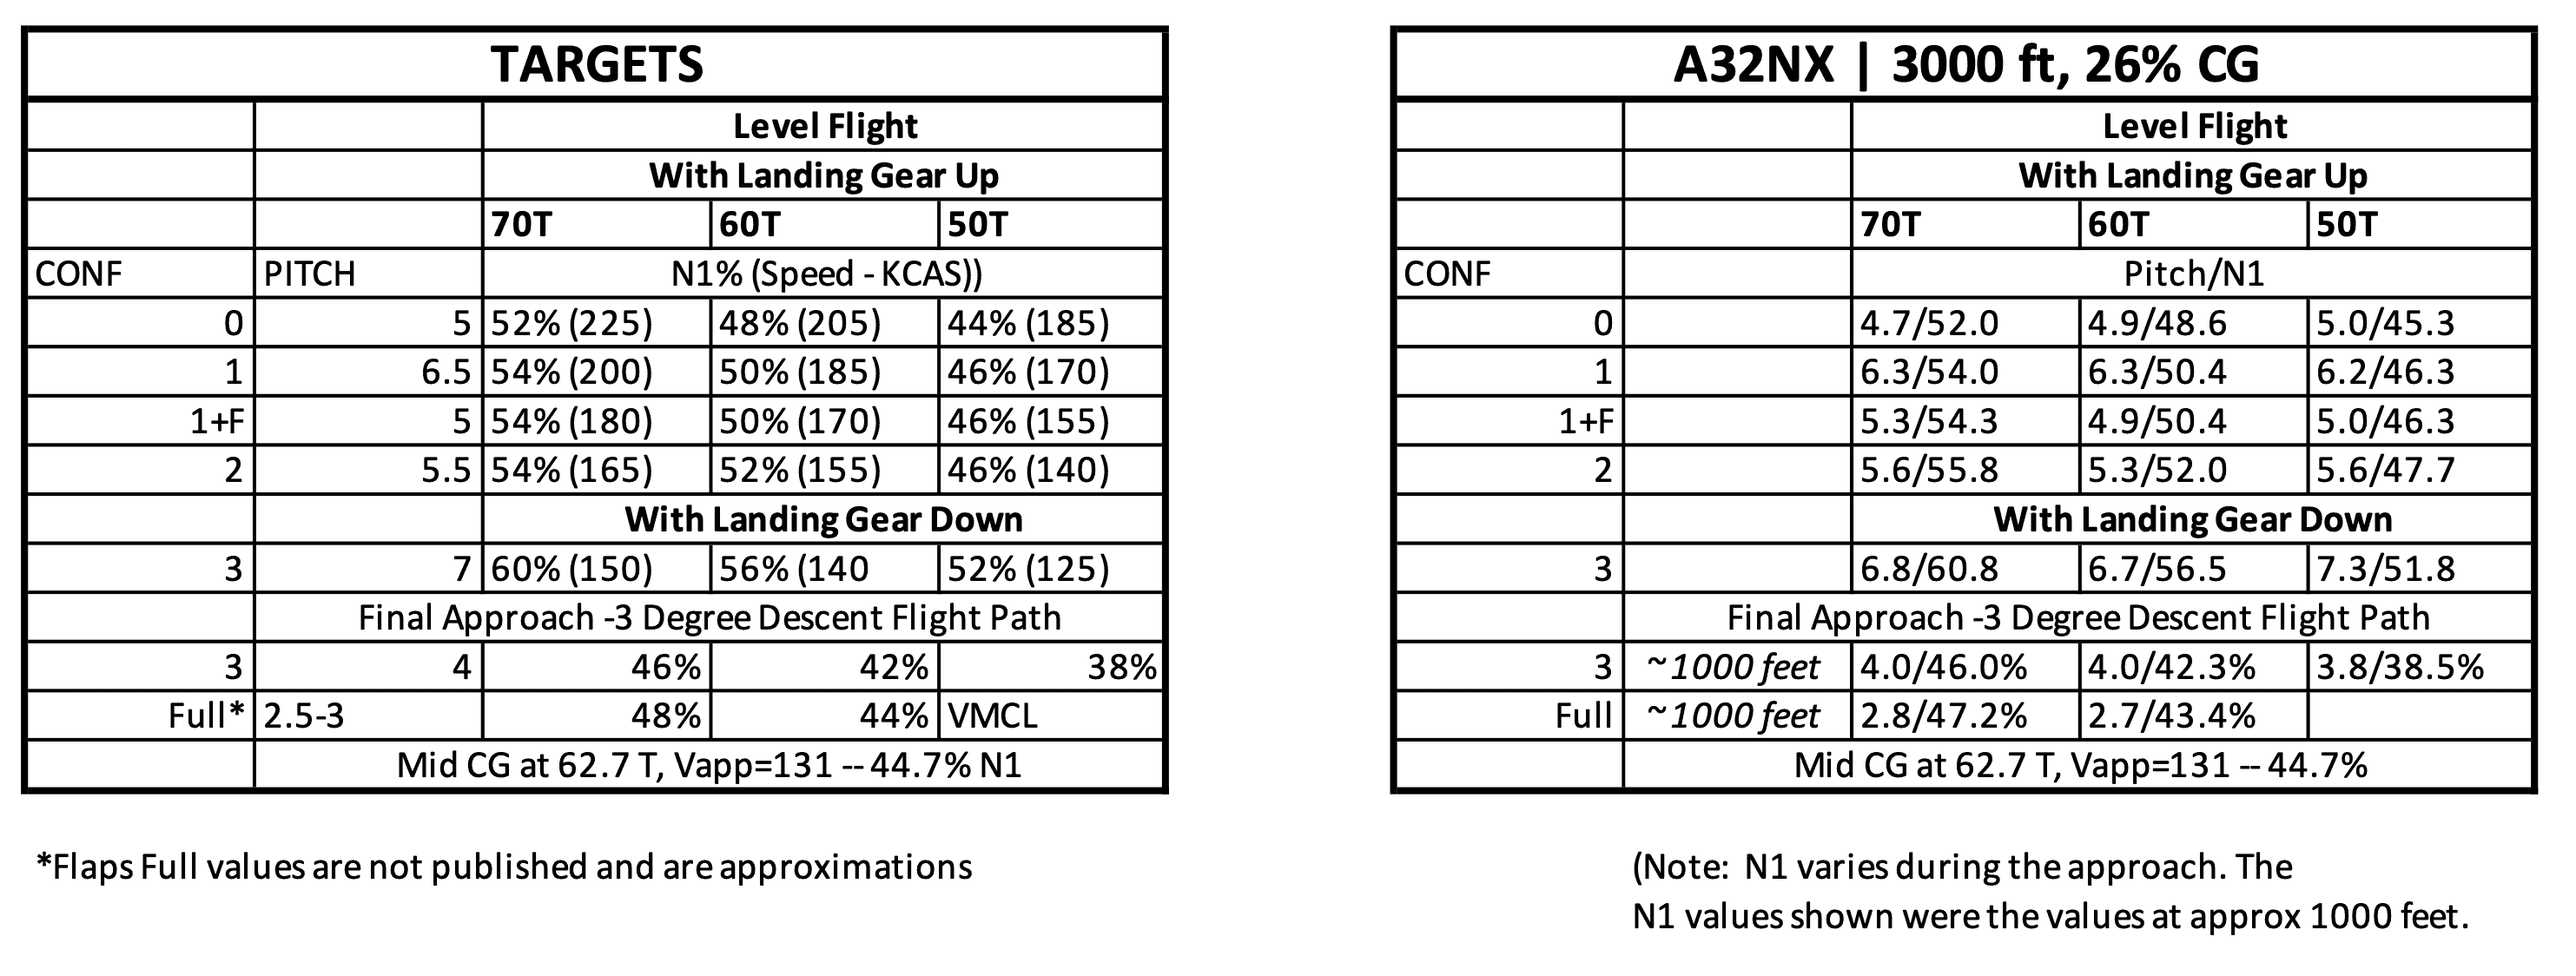
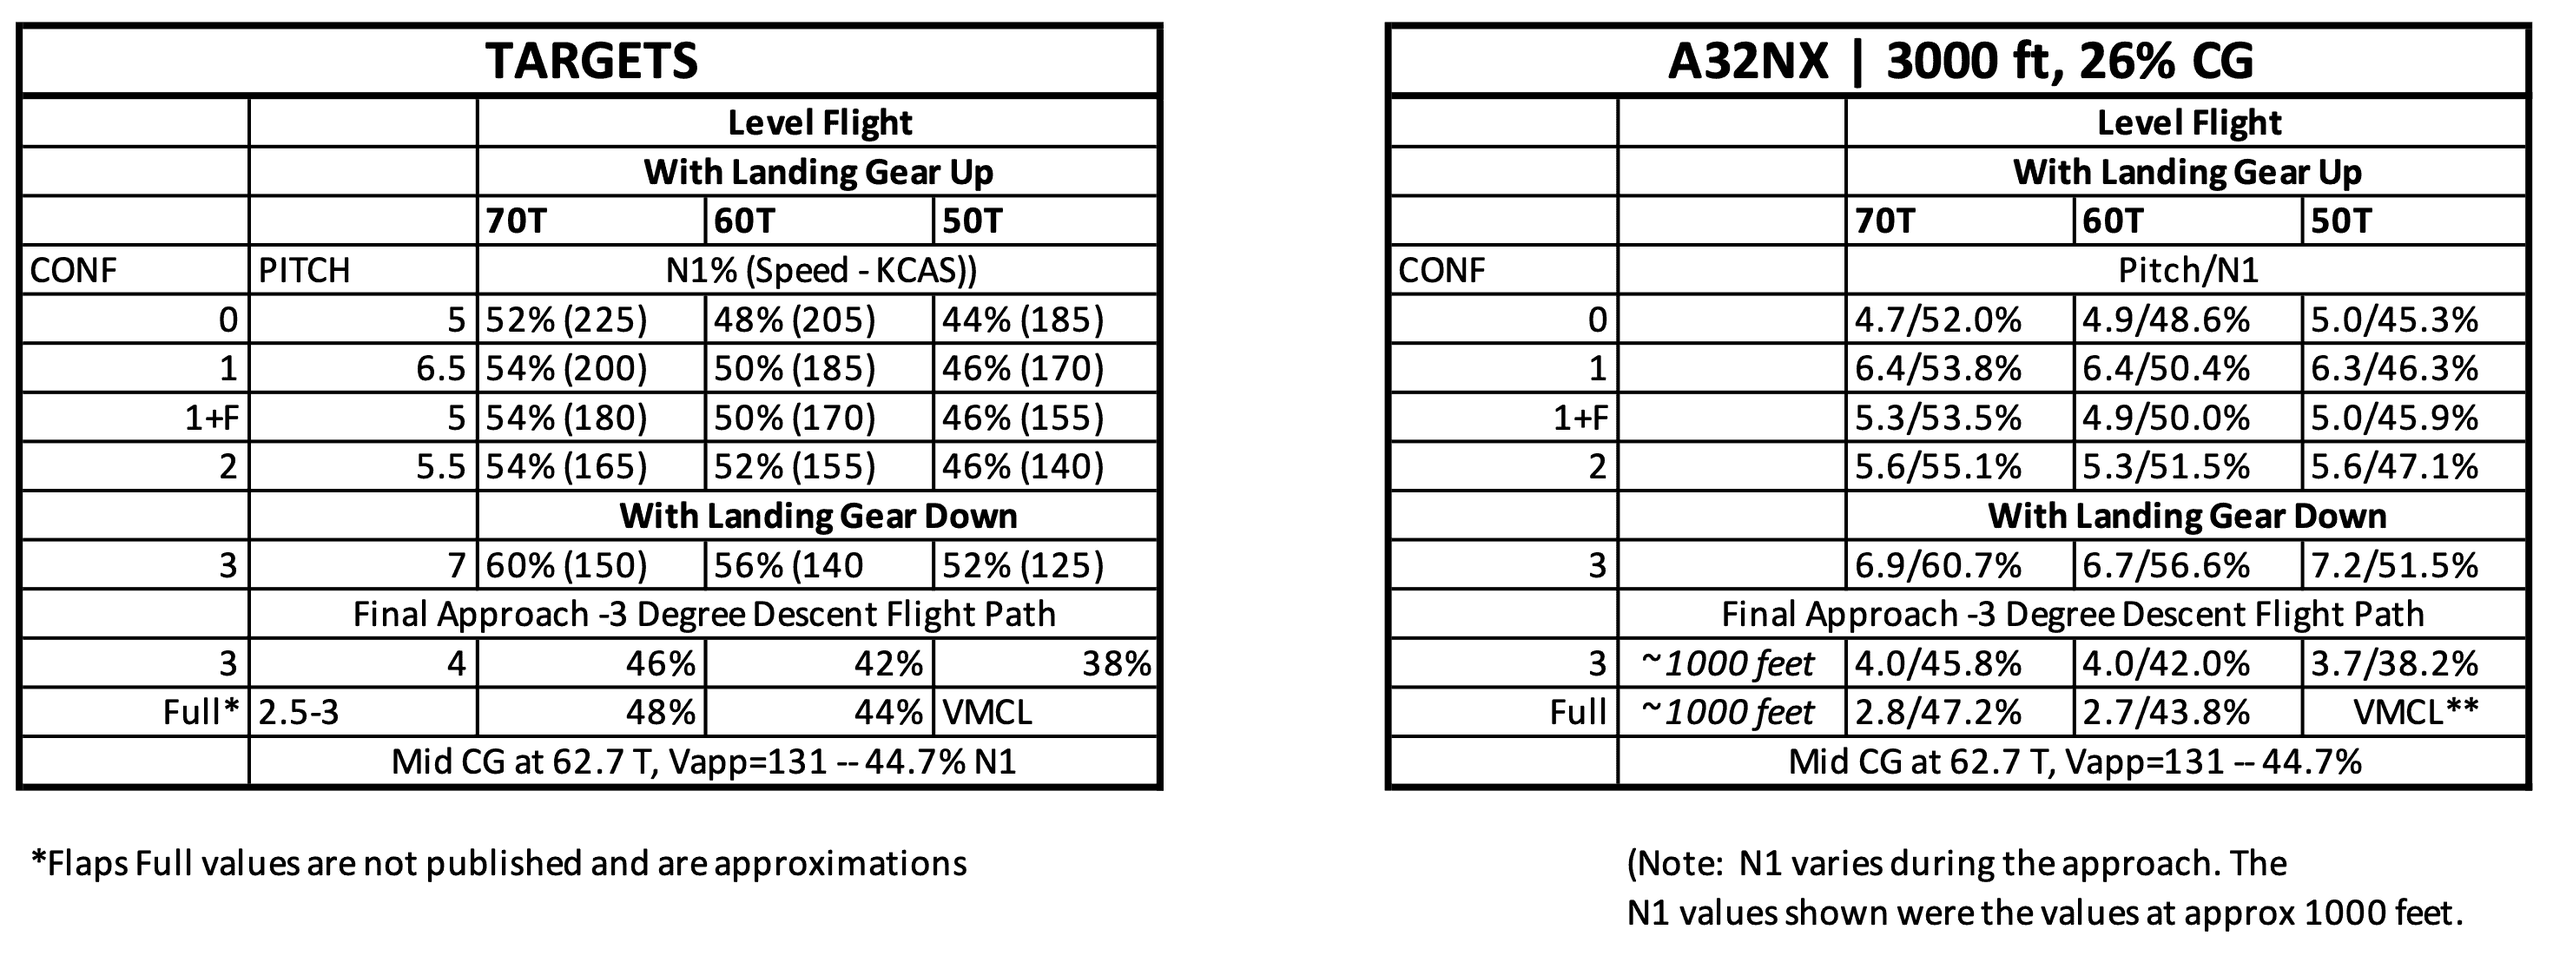
pitch angle corrections by donbikes

diff --git a/src/posts/a32nx-flight-model.md b/src/posts/a32nx-flight-model.md
@@ -27,16 +27,21 @@ We hope to continue bringing the best and most accurate flight model of the A320
 
 ---
 
-Credits to donbikes for the flight model work and Taz for the engine modelling.
+Credits:
+
+- donbikes for the flight model work,
+- Taz for the engine modelling,
+- Davy for the simulation of the autobrake system.
 
 **Note:** Some of the smaller more data heavy images can be clicked on so you can view the data in full.
+
+---
 
 ### Pitch Angle Verification ("Targets are from QRH")
 
 [![pitch angle table](/img/notam-images/flight-model/pitch-angle-table.png)](/img/notam-images/flight-model/pitch-angle-table.png)
 
-The following table represents pitch angle/N1 values at 3000 feet. These values are valid for both our Stable and Development version. Further tweaks and refinements are already in testing on our 
-Experimental version.
+The following table represents pitch angle/N1 values at 3000 feet. These values are valid for both our Stable and Development versions.
 
 [![pitch angle 3000ft](/img/notam-images/flight-model/pitch-3000.png)](/img/notam-images/flight-model/pitch-3000.png)
 
